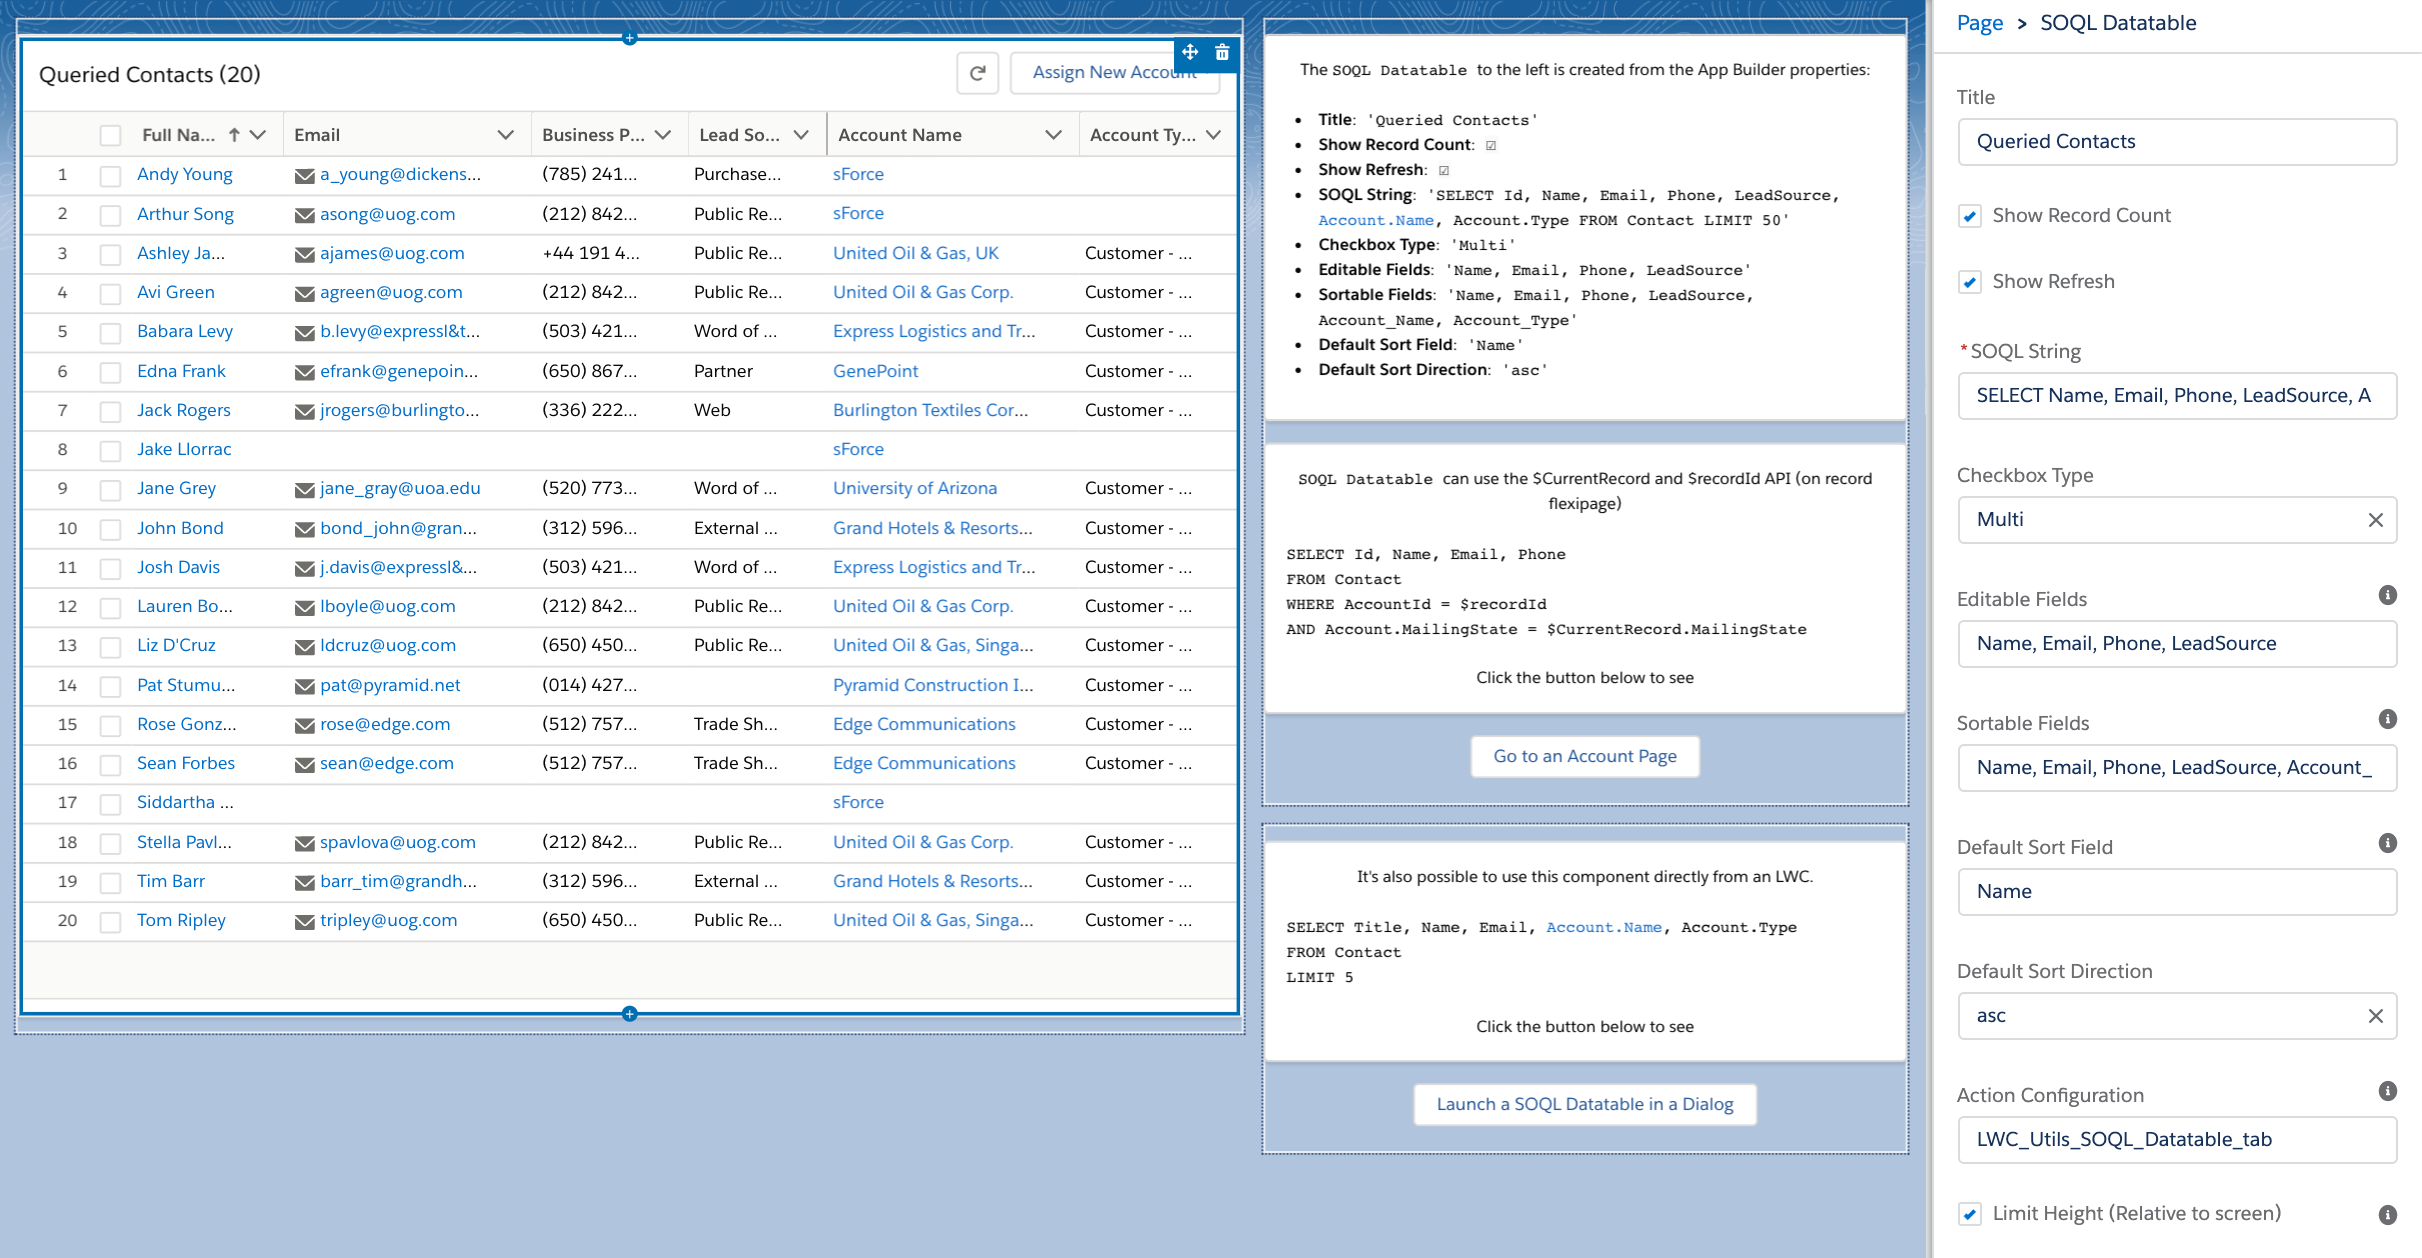
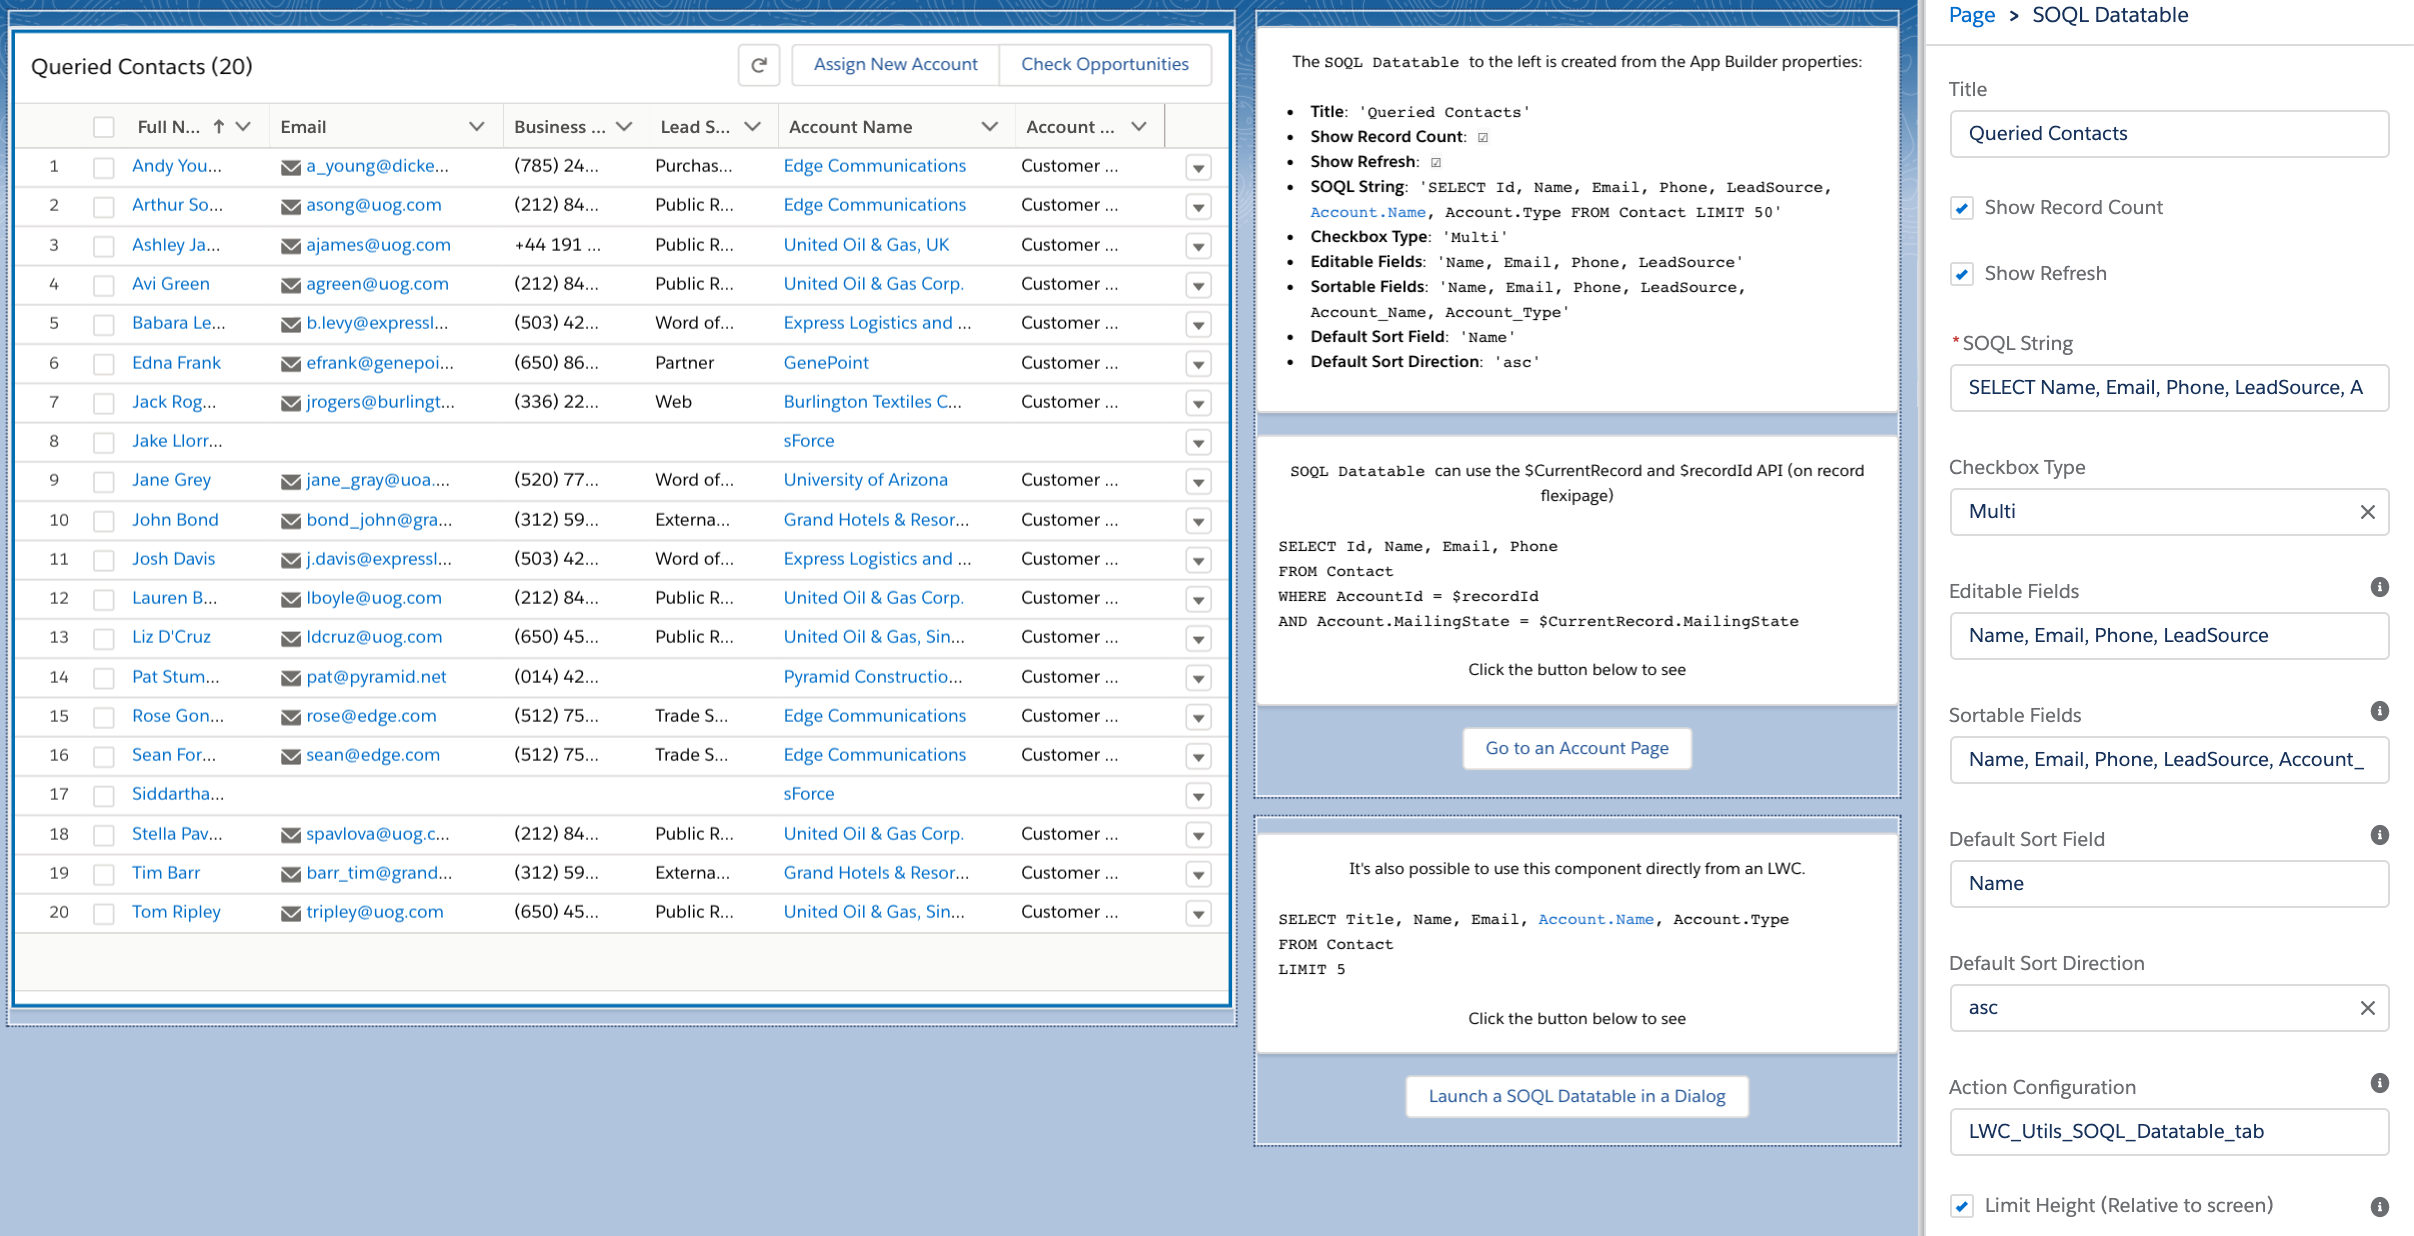
Update README

diff --git a/README.md b/README.md
@@ -386,36 +386,98 @@ The following are not currently supported, but is on the roadmap:
 </details>
 
 <details>
-    <summary>Configurable Custom Actions</summary>
+    <summary>Configurable Flow and LWC actions</summary>
 
-Configure a Primary or Secondary table action which can launch a flow with with a Custom Metadata row.
+Each `soqlDatatable` can be have one defined **Action Configuration** (`Datatable_Config__mdt`) to define both Table level (supporting multi / single select) and Row Level actions.
 
-App Builder's `Action Configuration` (`actionConfigDevName`) property refers to a single row configured on the `Datatable_Config__mdt` where the `Datatable_Action_Config__mdt` related children define the types of actions you can place on the table.
+Both LWCs (inside a dialog) and Screen Flows can be launched from either action type. The configuration is easier to explain in picture format:
 
-For example, the SOQL Datatable tab uses:
-
--  One `Datatable_Config__mdt` entry:
-    - **DeveloperName**: `LWC_Utils_SOQL_Datatable_tab`
-    - **Type**: `Actions`
-
-- One `Datatable_Action_Config__mdt` entry:
-    - **DeveloperName**: `Assign_New_Account_for_Contacts`
-    - **Type**: `Primary Table Action`
-    - **Datatable Config**: `[ Lookup to Datatable Config Above ]`
-    - **Button Label**: `Assign New Account`
-    - **Screen Flow API Name**: `SOQL_Datatable_Flow_Action_Update_Contacts_with_New_Account`
-    - **Flow Size**: `Normal`
-
-```
-// TODO custom row actions
-```
+![soql-datatable-config-mdt](/readme-images/soql-datatable-config-mdt.png?raw=true)
 
 <p align="center">
-    <img src="./readme-images/soql-datatable-flow-action.gif" width="900">
+    <img src="./readme-images/soql-datatable-actions.png" width="480">
 </p>
+
+#### Assign New Account - Flow Table Action
+
+The button is configured to the `SOQL_Datatable_Flow_Action_Update_Contacts_with_New_Account` Screen Flow.
+
+`soqlDatatable` sends the following `inputVariables` to Flows.
+
+| Name | Type | Value |
+|-|-|-|
+| SelectedRowKeys | String[]  | Selected Row key-fields, usually recordIds. |
+| SelectedRowKeysSize | Number | Number of selected rows. |
+| UniqueBoundary | String | For `dialogAutoCloser` to refresh the table that opened the Screen Flow.  |
+| SourceRecordId | String | The recordId of the page that the `soqlDatatable` is placed on. |
+
+When the flow is done, it auto-closes using `dialogAutoCloser`.
 
 <p align="center">
     <img src="./readme-images/soql-datatable-new-account-flow.png" width="640">
+</p>
+
+#### Check Opportunities - LWC Table Action
+
+This button configured to open the `checkOpportunitiesExample` LWC.
+
+Notice the public attributes, these are always supplied by `soqlDatatable` when invoking an LWC.
+
+```html
+<template>
+    <c-message-service boundary={uniqueBoundary}></c-message-service>
+    <template if:true={queryString}>
+        <c-soql-datatable query-string={queryString}></c-soql-datatable>
+    </template>
+    <template if:false={queryString}>
+        <div class="slds-align_absolute-center">
+            No Contacts Selected. Please choose contacts to view opportunities for.
+        </div>
+    </template>
+</template>
+```
+```js
+...
+
+@api uniqueBoundary;
+@api selectedRows;
+@api sourceRecordId;
+
+queryString;
+
+// private
+_isRendered;
+_messageService;
+_accountIdSet = new Set();
+
+connectedCallback() {
+    if (this.selectedRows && this.selectedRows.length) {
+        this.selectedRows.forEach(row => {
+            this._accountIdSet.add(`'${row.AccountId}'`);
+        });
+    }
+    if (this._accountIdSet.size > 0) {
+        let accountIds = Array.from(this._accountIdSet.keys());
+        this.queryString = convertToSingleLineString`
+            SELECT Account.Name, Name, Amount, CloseDate, StageName
+            FROM Opportunity
+            WHERE AccountId IN (${accountIds.join(',')})
+            ORDER BY Account.Name ASC
+        `;
+    }
+}
+
+...
+```
+
+#### Remove Phone - Flow Row Action
+
+The button is configured to the `SOQL_Datatable_Flow_Row_Action_Remove_Contact_Phone` Screen Flow.
+
+This Screen Flow also auto-closes with `dialogAutoCloser`.
+
+<p align="center">
+    <img src="./readme-images/soql-datatable-remove-contact-phone-flow.png" width="380">
 </p>
 
 </details>
